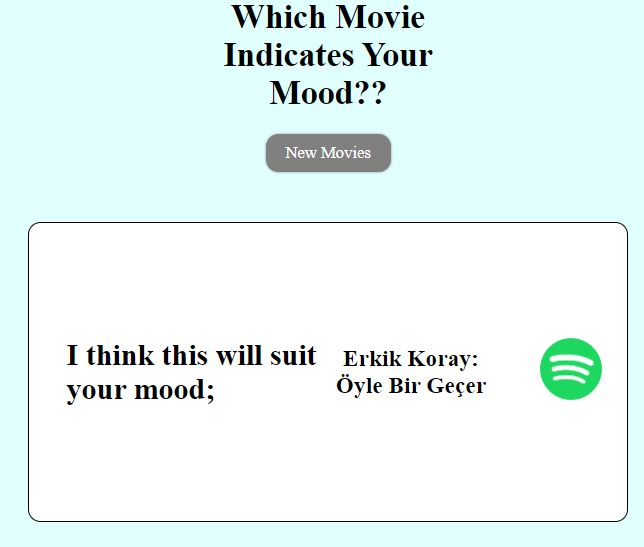
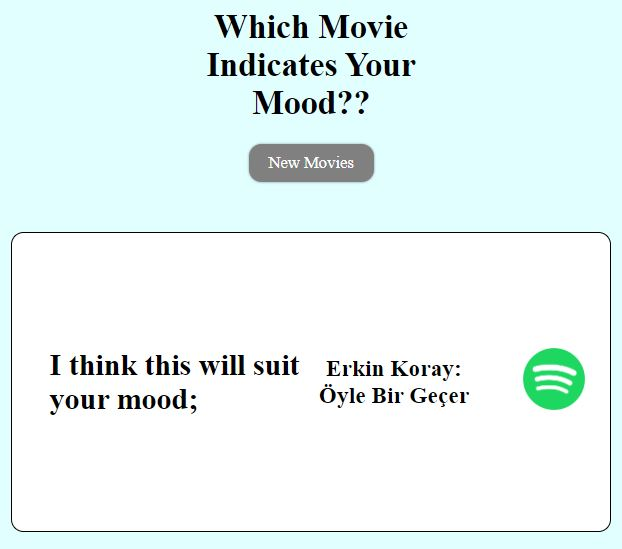
yazım hataları düzeltildi

Changed region(s): [[0.0, 0.404, 1.0, 0.9945], [0.336, 0.0, 0.672, 0.3419], [0.5193, 0.6216, 0.7637, 0.7459]]

diff --git a/src/script.js b/src/script.js
@@ -127,7 +127,7 @@ const musics = [
   },
   {
     type: "old",
-    artist: "Erkik Koray",
+    artist: "Erkin Koray",
     song: "Öyle Bir Geçer",
     spotifyLink:
       "https://open.spotify.com/track/0YED4pCW0UsmwAmdSebTUQ?si=cc30b1eb7e954083",
